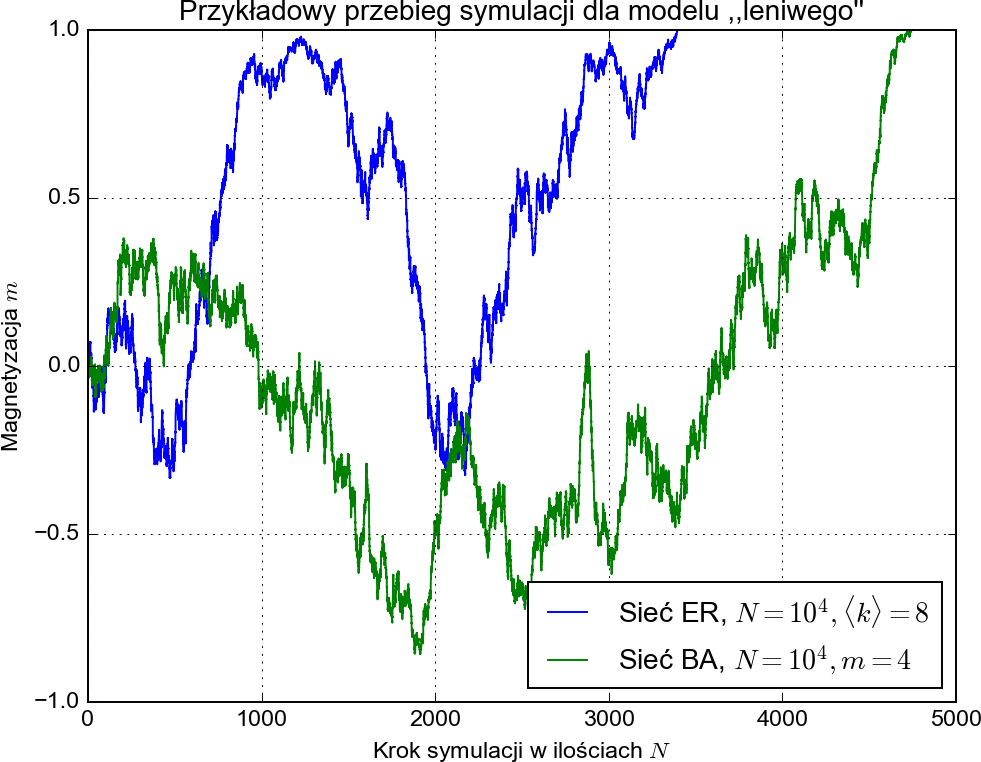
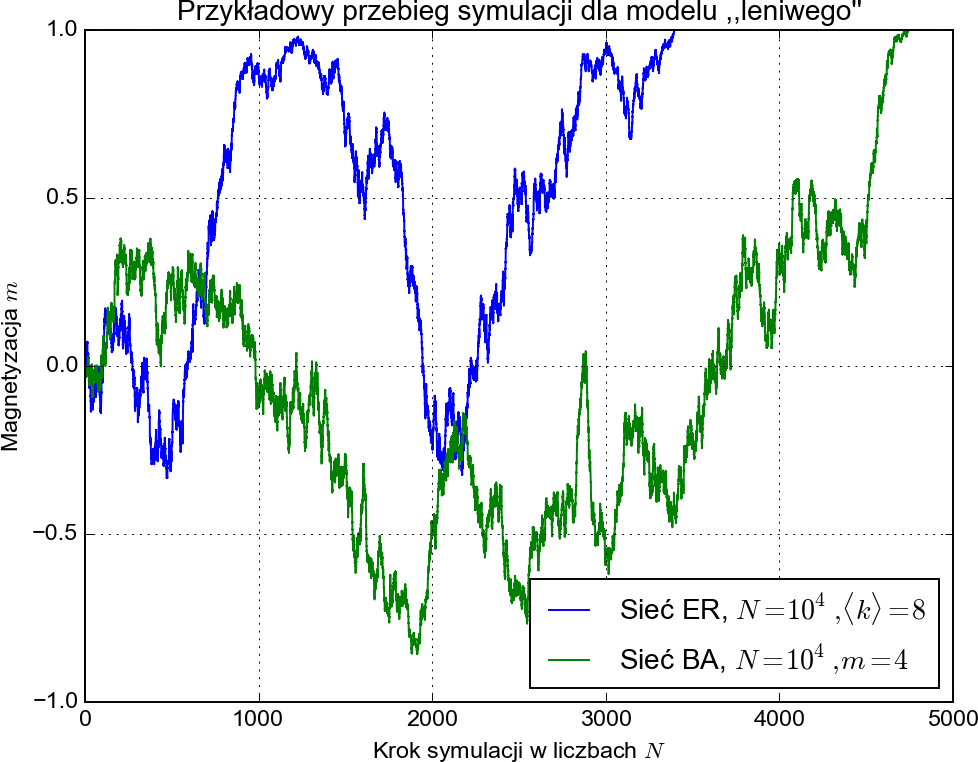
Last cleaning

diff --git a/AnalyzeExisting.py b/AnalyzeExisting.py
@@ -6,12 +6,15 @@ import random            #~ Niepotrzebne
 import matplotlib
 # matplotlib.use('Agg')
 import matplotlib.pyplot as plt #~ Do wykresow
+
+import matplotlib.ticker as ticker  
 from  matplotlib import rc
 import time                #~ Niepotrzebne
 import os.path            #~ Do sprawdzania istnienia plikow
 import numpy as np        #~ Do operacjach na array
 import cPickle as pickle
 import json
+import gzip		
 from FilesManagment import CheckFolder
 from PIL import Image
 
@@ -34,6 +37,19 @@ def loadList(filepath, string_form = True):
     with open(filepath, 'rb') as f:
         content = pickle.load(f)
     return np.array(map(float,content[1:-1].split(','))) if string_form else content
+
+
+def loadJustList(filepath, string_form = True):
+    with open(filepath, 'rb') as f:
+        content = f.read()
+    return np.array(map(float,content[1:-1].split(','))) if string_form else content
+
+
+def loadListGzip(filepath, string_form = True):
+    with gzip.open(filepath, 'rb') as f:
+        content = f.read()
+    return np.array(map(float,content[1:-1].split(','))) if string_form else content
+
 
 def loadDic(filepath):
     with open(filepath, 'r') as f:
@@ -103,7 +119,7 @@ def example_lazy():
     plt.plot(er_x, er_y, label = u'Sieć ER, $N = 10^4, \\langle k \\rangle = 8$ ')
     plt.plot(ba_x, ba_y, label = u'Sieć BA, $N = 10^4, m = 4$ ')
     plt.ylabel(u'Magnetyzacja $m$')
-    plt.xlabel(u'Krok symulacji w ilościach $N$')
+    plt.xlabel(u'Krok symulacji w liczbach $N$')
     plt.ylim(-1,1)
     plt.legend(loc=4)
     plt.grid(True)
@@ -138,7 +154,7 @@ def example_clique():
     plt.plot(er_x, er_y, label = u'Sieć ER, $N = 10^4, \\langle k \\rangle = 8$ ')
     plt.plot(ba_x, ba_y, label = u'Sieć BA, $N = 10^4, m = 4$ ')
     plt.ylabel(u'Magnetyzacja $m$')
-    plt.xlabel(u'Krok symulacji w ilościach $N$')
+    plt.xlabel(u'Krok symulacji w liczbach $N$')
     plt.ylim(-1,1)
     plt.legend(loc=4)
     plt.grid(True)
@@ -231,11 +247,12 @@ def lazy_time():
         result = []
         for key, value in d.iteritems():
             for i in range(value):
-                result.append(key/100)
+                if key <= 10000:
+                    result.append(key)
         return result
 
     stg_er = {
-        'CONST_PATH_BASIC_FOLDER' : r'Wyniki_lazy_meanK\analyze',
+        'CONST_PATH_BASIC_FOLDER' : r'.\..\get_ssh_data\WynikiERtime\analyze',
         'PATH_DATA_NAME' : 'time_dla_er_lazy_fazowe_k8.pickle',
         'DIR_PLOT' : 'Wykresy',
         'PATH_PLOT' : 'lazy_time_1.png'
@@ -259,15 +276,31 @@ def lazy_time():
     rc('font', family='Arial') #Plotowanie polskich liter
     fig = plt.figure()
 
-    plt.hist(er, bins=40, normed = True, label = 'er')
-    plt.hist(ba, bins=40, normed = True, label = 'ba')
+    hist_er, bins_er = np.histogram(er, bins=np.linspace(0, 9999, 30), normed = True)
+    hist_ba, bins_ba = np.histogram(ba, bins=np.linspace(0, 9999, 30), normed = True)    
+
+    d_er = (bins_er[1]-bins_er[0]) / 2
+    # print hist_er, bins_er+d_er
+    # print hist_ba, bins_ba+d_er
+
+    # print len(hist_er), len(bins_er+d_er)
+    # print len(hist_ba), len(bins_ba+d_er)
+    
+    
+    plt.plot(bins_er[:-1]+d_er, hist_er,'x--', label = 'Histogram dla sieci ER, $N=10^4$, $\\langle k \\rangle = 8$')
+    plt.plot(bins_ba[:-1]+d_er, hist_ba,'o--', label = 'Histogram dla sieci BA, $N=10^4$, $m = 4$')
+    
+    
+    # plt.hist(er, bins=np.linspace, normed = True, label = 'er')
+    # plt.hist(ba, bins=30, normed = True, label = 'ba')
     # plt.plot(er_x, er_y, 'o--', label = u'Sieć ER, $N = 6$ x $10^3$,\n $\\langle k \\rangle = 77$')
     # plt.plot(ba_x, ba_y, 'o--', label = u'Sieć BA, $N = 10^5$,\n $m = 12$')   
     # plt.plot([0,1], '-', label = u'Zależność $P_+(p_+) = p_+$ ')
     plt.ylabel(u'Prawdopodobieństwo $P_T(t)$')
-    plt.xlabel(u'Krok symulacji w ilościach $N$')
-    plt.legend(loc=2)
+    plt.xlabel(u'Krok symulacji w liczbach $N$')
+    plt.legend(loc=1)
     plt.grid(True)
+    plt.xlim(0,9900)
     plt.title(u'Rozkład czasów relaksacji dla modelu ,,leniwego\'\'')
     plt.rcParams['figure.figsize'] = np.array([5,4])*1.5 
     fig.savefig(filepath_plot, dpi = 140)
@@ -275,5 +308,140 @@ def lazy_time():
     crop_image(filepath_plot)
     print 'Cropped {}'.format(filepath_plot)
 
+def fast():
+    rc('font', family='Arial') #Plotowanie polskich liter
+    fig = plt.figure()
+    plt.plot([52,61],[0.1,0.9])
+    plt.ylabel(u'Absolutna magnetyzacja końcowa')
+    plt.xlabel(u'Średni stopień wierzchołka $\\langle k \\rangle$')
+    # plt.legend(loc=2)
+    plt.ylim(0,1)
+    plt.xlim(50,75)
+    # plt.grid(True)
+    plt.title(u'Możliwa do osiągniecia magnetyzacja końcowa dla modelu ,,klikowego\'\'')
+    plt.rcParams['figure.figsize'] = np.array([5,4])*1.5 
+    filepath_plot = os.path.join('Wykresy','klik_koniec_er_4.png')
+    fig.savefig(filepath_plot, dpi = 140)
+    # fig.savefig(filepath_plot)
+    print 'Plotted to: {}'.format(filepath_plot)
+    crop_image(filepath_plot)
+    print 'Cropped {}'.format(filepath_plot)
+
+def fast2():
+    x1 = np.array([3,4,5,6,7,8,9,10,11,12,13])
+    y1 = np.array([0.612,0.738, 0.878, 0.9462, 0.9815, 0.9919, 0.997, 0.9994, 0.9999, 1,1])*2-1
+
+    x2 = np.array([4,5,6,7,8,9,10,11])
+    y2 = np.array([0.64631, 0.7616, 0.85635, 0.93016, 0.96546, 0.98727, 0.99434, 0.9982])*2-1
+
+    if len(x1) != len (y1) and len(x2) != len (y2):
+        raise ValueError('wrd')
+    
+    
+
+    rc('font', family='Arial') #Plotowanie polskich liter
+    fig = plt.figure()
+    plt.plot(x1, y1, 'o--',label = u'Sieć BA, o $N = 10^4$')
+    plt.plot(x2, y2, 'o--',label = u'Sieć BA, o $N = 10^5$')
+    # plt.plot([52,61],[0.1,0.9])
+    plt.ylabel(u'Absolutna magnetyzacja końcowa')
+    plt.xlabel(u'Współczynnik $m$ sieci BA')
+    # plt.legend(loc=2)
+    plt.ylim(0,1)
+    plt.xlim(2,13)
+    plt.grid(True)
+    plt.legend(loc = 4)
+    plt.title(u'Możliwa do osiągniecia magnetyzacja końcowa dla modelu ,,klikowego\'\'')
+    plt.rcParams['figure.figsize'] = np.array([5,4])*1.5 
+    filepath_plot = os.path.join('Wykresy','klik_koniec_ba_1.png')
+    fig.savefig(filepath_plot, dpi = 140)
+    # fig.savefig(filepath_plot)
+    print 'Plotted to: {}'.format(filepath_plot)
+    crop_image(filepath_plot)
+    print 'Cropped {}'.format(filepath_plot)
+
+def plotuj_fast3(PATH_FILE_3, name, to_x = 200, yticks=True, scale = 0.01, gzip_if = True):    
+    if gzip_if:
+        result = loadListGzip(PATH_FILE_3)
+    else:
+        result = loadJustList(PATH_FILE_3, string_form = True)
+    result = np.array(result)
+    result = result*2 - 1
+    print result.shape
+    # print type(result)
+    # print np.array(result)
+
+    rc('font', family='Arial') #Plotowanie polskich liter
+    plt.rcParams['figure.figsize'] = np.array([5,4])*1
+    fig = plt.figure()
+    ax = fig.add_subplot(111)
+    ax.plot(result)
+    # plt.plot(result)
+    # fig.ylim(-1,1)
+    plt.ylim(-1,1)
+    filepath_plot = os.path.join('Wykresy', '{}.png'.format(name))
+
+    scale = 0.01
+
+    # ticks = plt.get_xticks()*scale
+    # plt.set_xticklabels(ticks)
+
+    if gzip_if:
+        ticks = ticker.FuncFormatter(lambda x, pos: '{0:g}'.format(x*scale))
+        ax.xaxis.set_major_formatter(ticks)
+    
+
+    if not yticks:
+        plt.gca().yaxis.set_major_locator(plt.NullLocator())
+
+    if gzip_if:
+        plt.xlim(0,to_x*int(1/scale))
+    else:        
+        plt.xlim(0,to_x)
+    # ax.yaxis.grid() # horizontal lines
+    # ax.xaxis.grid() # vertical lines
+    # plt.grid()
+
+    fig.savefig(filepath_plot, dpi = 250)
+    # fig.savefig(filepath_plot)
+    print 'Plotted to: {}'.format(filepath_plot)
+    crop_image(filepath_plot)
+
+
+def fast3():
+    PATH_BASIC = r'E:\DropboxPK\Dropbox\Studia\licencjat'
+    PATH_S_BASIC_1 = r'Symulacje12.06\Wyniki\RawDataMag\klik3\stopnie\20.0\k0'
+    PATH_FILE_1= r'simResultsData2.txt.gz'
+    PATH_FILE_1 = os.path.join(PATH_BASIC, PATH_S_BASIC_1, PATH_FILE_1)
+    
+    PATH_S_BASIC_2 = r'Symulacje12.06\Wyniki\RawDataMag\klik3\stopnie\27.8\k0'
+    PATH_FILE_2= r'simResultsData35.txt.gz'
+    PATH_FILE_2 = os.path.join(PATH_BASIC, PATH_S_BASIC_2, PATH_FILE_2)
+
+    PATH_S_BASIC_3 = r'Symulacje12.06\Wyniki\RawDataMag\klik3\stopnie\39.5\k1'
+    PATH_FILE_3= r'simResultsData11.txt.gz'
+    PATH_FILE_3 = os.path.join(PATH_BASIC, PATH_S_BASIC_3, PATH_FILE_3)
+
+    plotuj_fast3(PATH_FILE_1, name = 'klik_typowa_pd')
+    plotuj_fast3(PATH_FILE_2,to_x=1200,  name = 'klik_typowa_pp',yticks = True)
+    plotuj_fast3(PATH_FILE_3, name = 'klik_typowa_pg', yticks=True)
+
+# E:\DropboxPK\Dropbox\Studia\licencjat\
+    PATH_S_BASIC_4 = r'Symulacje2016.07.07\get_ssh_data\Wykresy\Wykresy'
+    PATH_FILE_4 = r'pp_ba.data'
+    PATH_FILE_4 = os.path.join(PATH_BASIC, PATH_S_BASIC_4, PATH_FILE_4)
+    
+    PATH_S_BASIC_5 = PATH_S_BASIC_4
+    PATH_FILE_5 = r'ps_ba.data'
+    PATH_FILE_5 = os.path.join(PATH_BASIC, PATH_S_BASIC_5, PATH_FILE_5)
+
+    PATH_S_BASIC_6 = PATH_S_BASIC_4
+    PATH_FILE_6= r'pg_ba.data'
+    PATH_FILE_6 = os.path.join(PATH_BASIC, PATH_S_BASIC_6, PATH_FILE_6)
+
+    plotuj_fast3(PATH_FILE_4, name = 'klik_typowa_pd_ba', gzip_if=False)
+    plotuj_fast3(PATH_FILE_5, to_x=1200,  name = 'klik_typowa_pp_ba',yticks=True, gzip_if=False)
+    plotuj_fast3(PATH_FILE_6, name = 'klik_typowa_pg_ba',yticks=True, gzip_if=False)
+
 if '__main__' == __name__:
-    lazy_time()
+    fast3()

diff --git a/AnalyzeLazyTime.py b/AnalyzeLazyTime.py
@@ -1,9 +1,10 @@
+# -*- coding: utf-8 -*-
 from __future__ import division #~ Domysle dzielenie int jako liczb float
 # from igraph import *     #~ Niepotrzebne
 
 import random            #~ Niepotrzebne
 import matplotlib
-matplotlib.use('Agg')
+# matplotlib.use('Agg')
 import matplotlib.pyplot as plt #~ Do wykresow
 from  matplotlib import rc
 import time                #~ Niepotrzebne
@@ -12,7 +13,20 @@ import numpy as np        #~ Do operacjach na array
 import cPickle as pickle
 import json
 from FilesManagment import CheckFolder, CompressData   
-        
+from PIL import Image
+
+def crop_image(filepath):
+    image=Image.open(filepath)
+    image.load()
+    image_data = np.asarray(image)
+    image_data_bw = image_data.min(axis=2)
+    non_empty_columns = np.where(image_data_bw.min(axis=0)<255)[0]
+    non_empty_rows = np.where(image_data_bw.min(axis=1)<255)[0]
+    cropBox = (min(non_empty_rows), max(non_empty_rows), min(non_empty_columns), max(non_empty_columns))
+    image_data_new = image_data[cropBox[0]:cropBox[1]+1, cropBox[2]:cropBox[3]+1 , :]
+    new_image = Image.fromarray(image_data_new)
+    new_image.save(filepath)   
+
 #~ Funkcja bierze liste i odwraca tam gdzie sa mniejsze niz 0.5        
 def OdwrocMniejsze(lista):
     retlista = np.array(lista)
@@ -50,13 +64,15 @@ def plotuj(stg, data, type_plot):
     else:
         raise ValueError
 
-    plt.ylabel('Ilosc przypadkow')
-    plt.xlabel('Czasy')
-    fig.suptitle('Histogram czasu trwania symulacji - {}.'.format(type_plot))
+    plt.ylabel(u'Prawdopodobieństwo $P_T(t)$')
+    plt.xlabel(u'Zlogarytmowany krok symulacji w liczbach $N$')
+    # fig.suptitle('Histogram czasu trwania symulacji - {}.'.format(type_plot))
+    plt.title(u'Rozkład zlogarytowanych czasów relaksacji dla modelu ,,leniwego\'\'')
 
     fig.savefig(os.path.join(stg['CONST_STANDARD_PATH_ANALYZE'], stg['CONST_PATH_WYK']+'_{}'.format(type_plot) + '.png'), dpi = 200)
     print 'Plotted to: {}'.format(os.path.join(stg['CONST_STANDARD_PATH_ANALYZE'], stg['CONST_PATH_WYK']+'_{}'.format(type_plot) + '.png'))
     fig.clf()
+    crop_image(os.path.join(stg['CONST_STANDARD_PATH_ANALYZE'], stg['CONST_PATH_WYK']+'_{}'.format(type_plot) + '.png'))
 
 def check_folder_k(spin, path_file, basic_dir, stg):
     path_k = os.path.join(basic_dir, path_file, 'k{}'.format(spin))
@@ -149,19 +165,19 @@ def analyze(stg):
 
 if __name__ == '__main__':
     # skrypt do analizowania przejscia fazowego
-    # rc('font', family='Arial') #Plotowanie polskich liter
+    rc('font', family='Arial') #Plotowanie polskich liter
     #~ Definicje stalych symulacji
     stg = {
         # 'CONST_CLIQUE'  : 3,      #~ Wielkosc kliki
-        'CONST_VERTICES'  : 10000,   #~ Ilosc wezlow
+        'CONST_VERTICES'  : 1000,   #~ Ilosc wezlow
         'CONST_OVERRIDEN' : False,  #~ Czy ma nadpisywac pliki podczas zapisywania wynikow   
         'CONST_DUMP'      : True,   # czy ma zrzucac wektory wynikow 
         # 'CONST_PATH_BASIC_FOLDER' : 'Wyniki_barabasi_lazy_fazowe',
         'CONST_PATH_BASIC_FOLDER' : 'Wyniki_lazy_meanK',
-        'CONST_MEAN_k'    : 8.0,
+        'CONST_MEAN_k'    : 22.0,
         'CONST_PATH_WYK'  : 'time_dla_er_lazy_fazowe_k8',
         'CONST_FAZOWE'    : False,         
-        # 'CONST_START_MAGNETIZATION' : 0.5
+        'CONST_START_MAGNETIZATION' : 0.5
     }
 
     analyze(stg)
